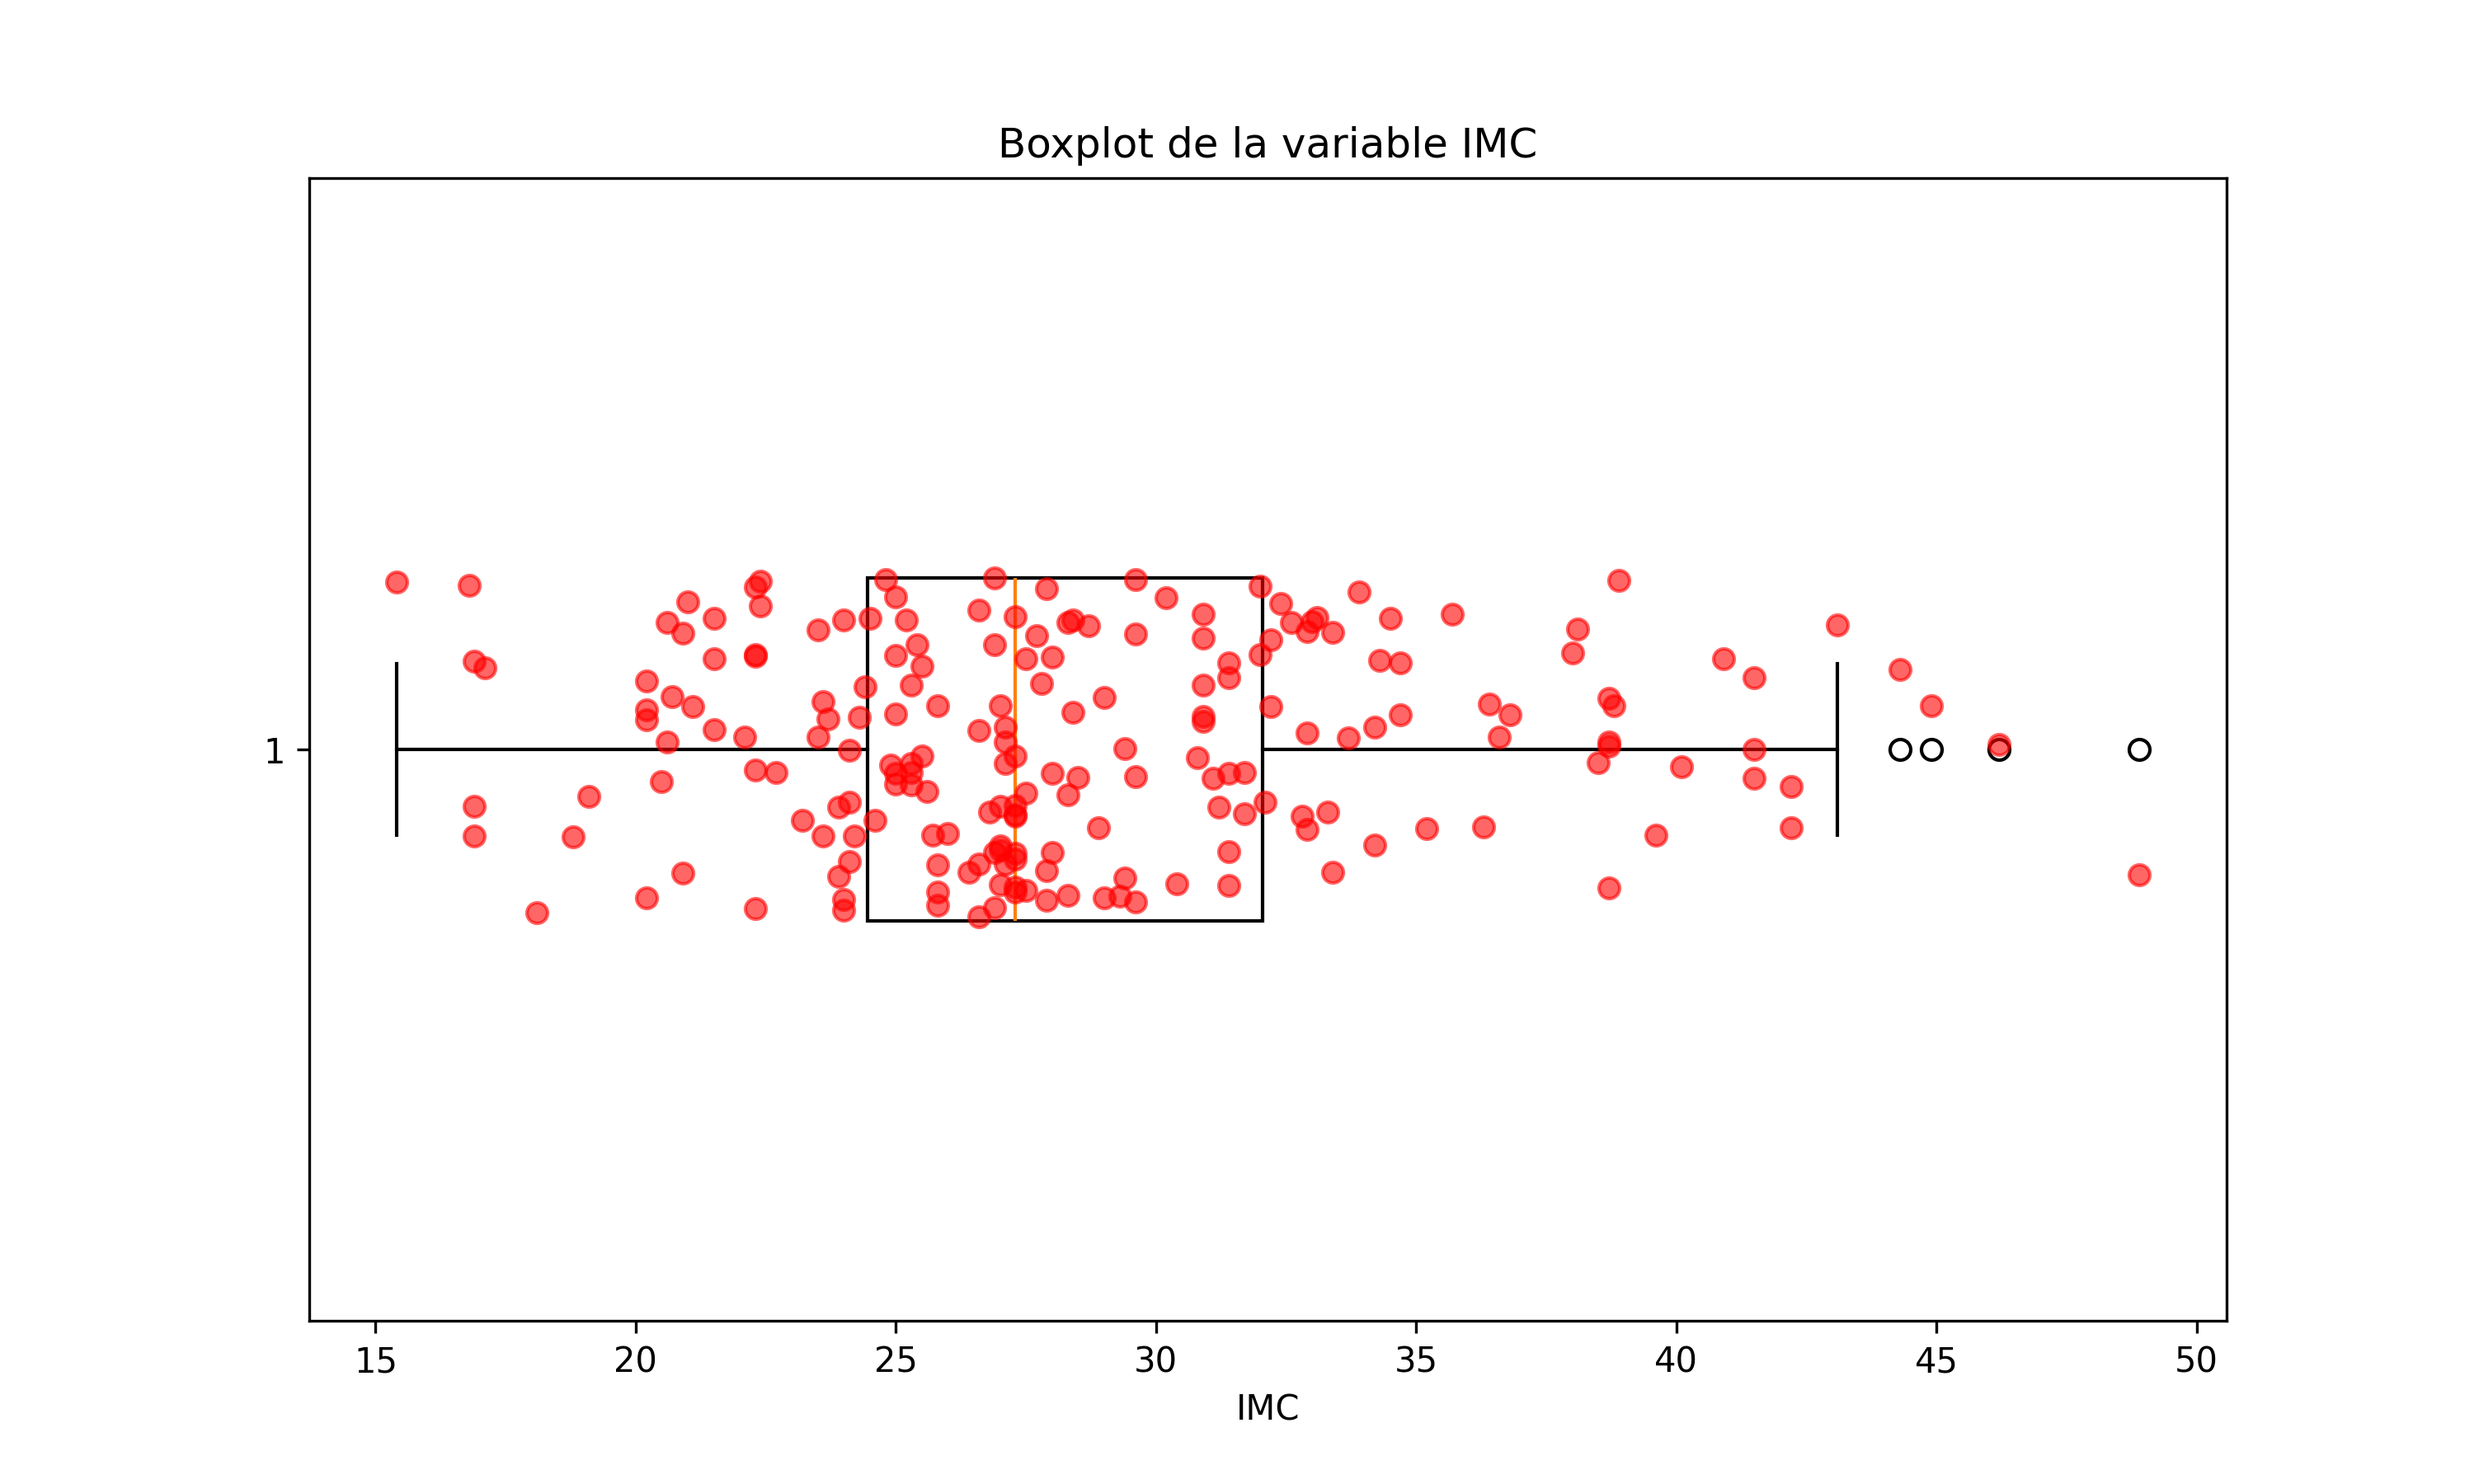
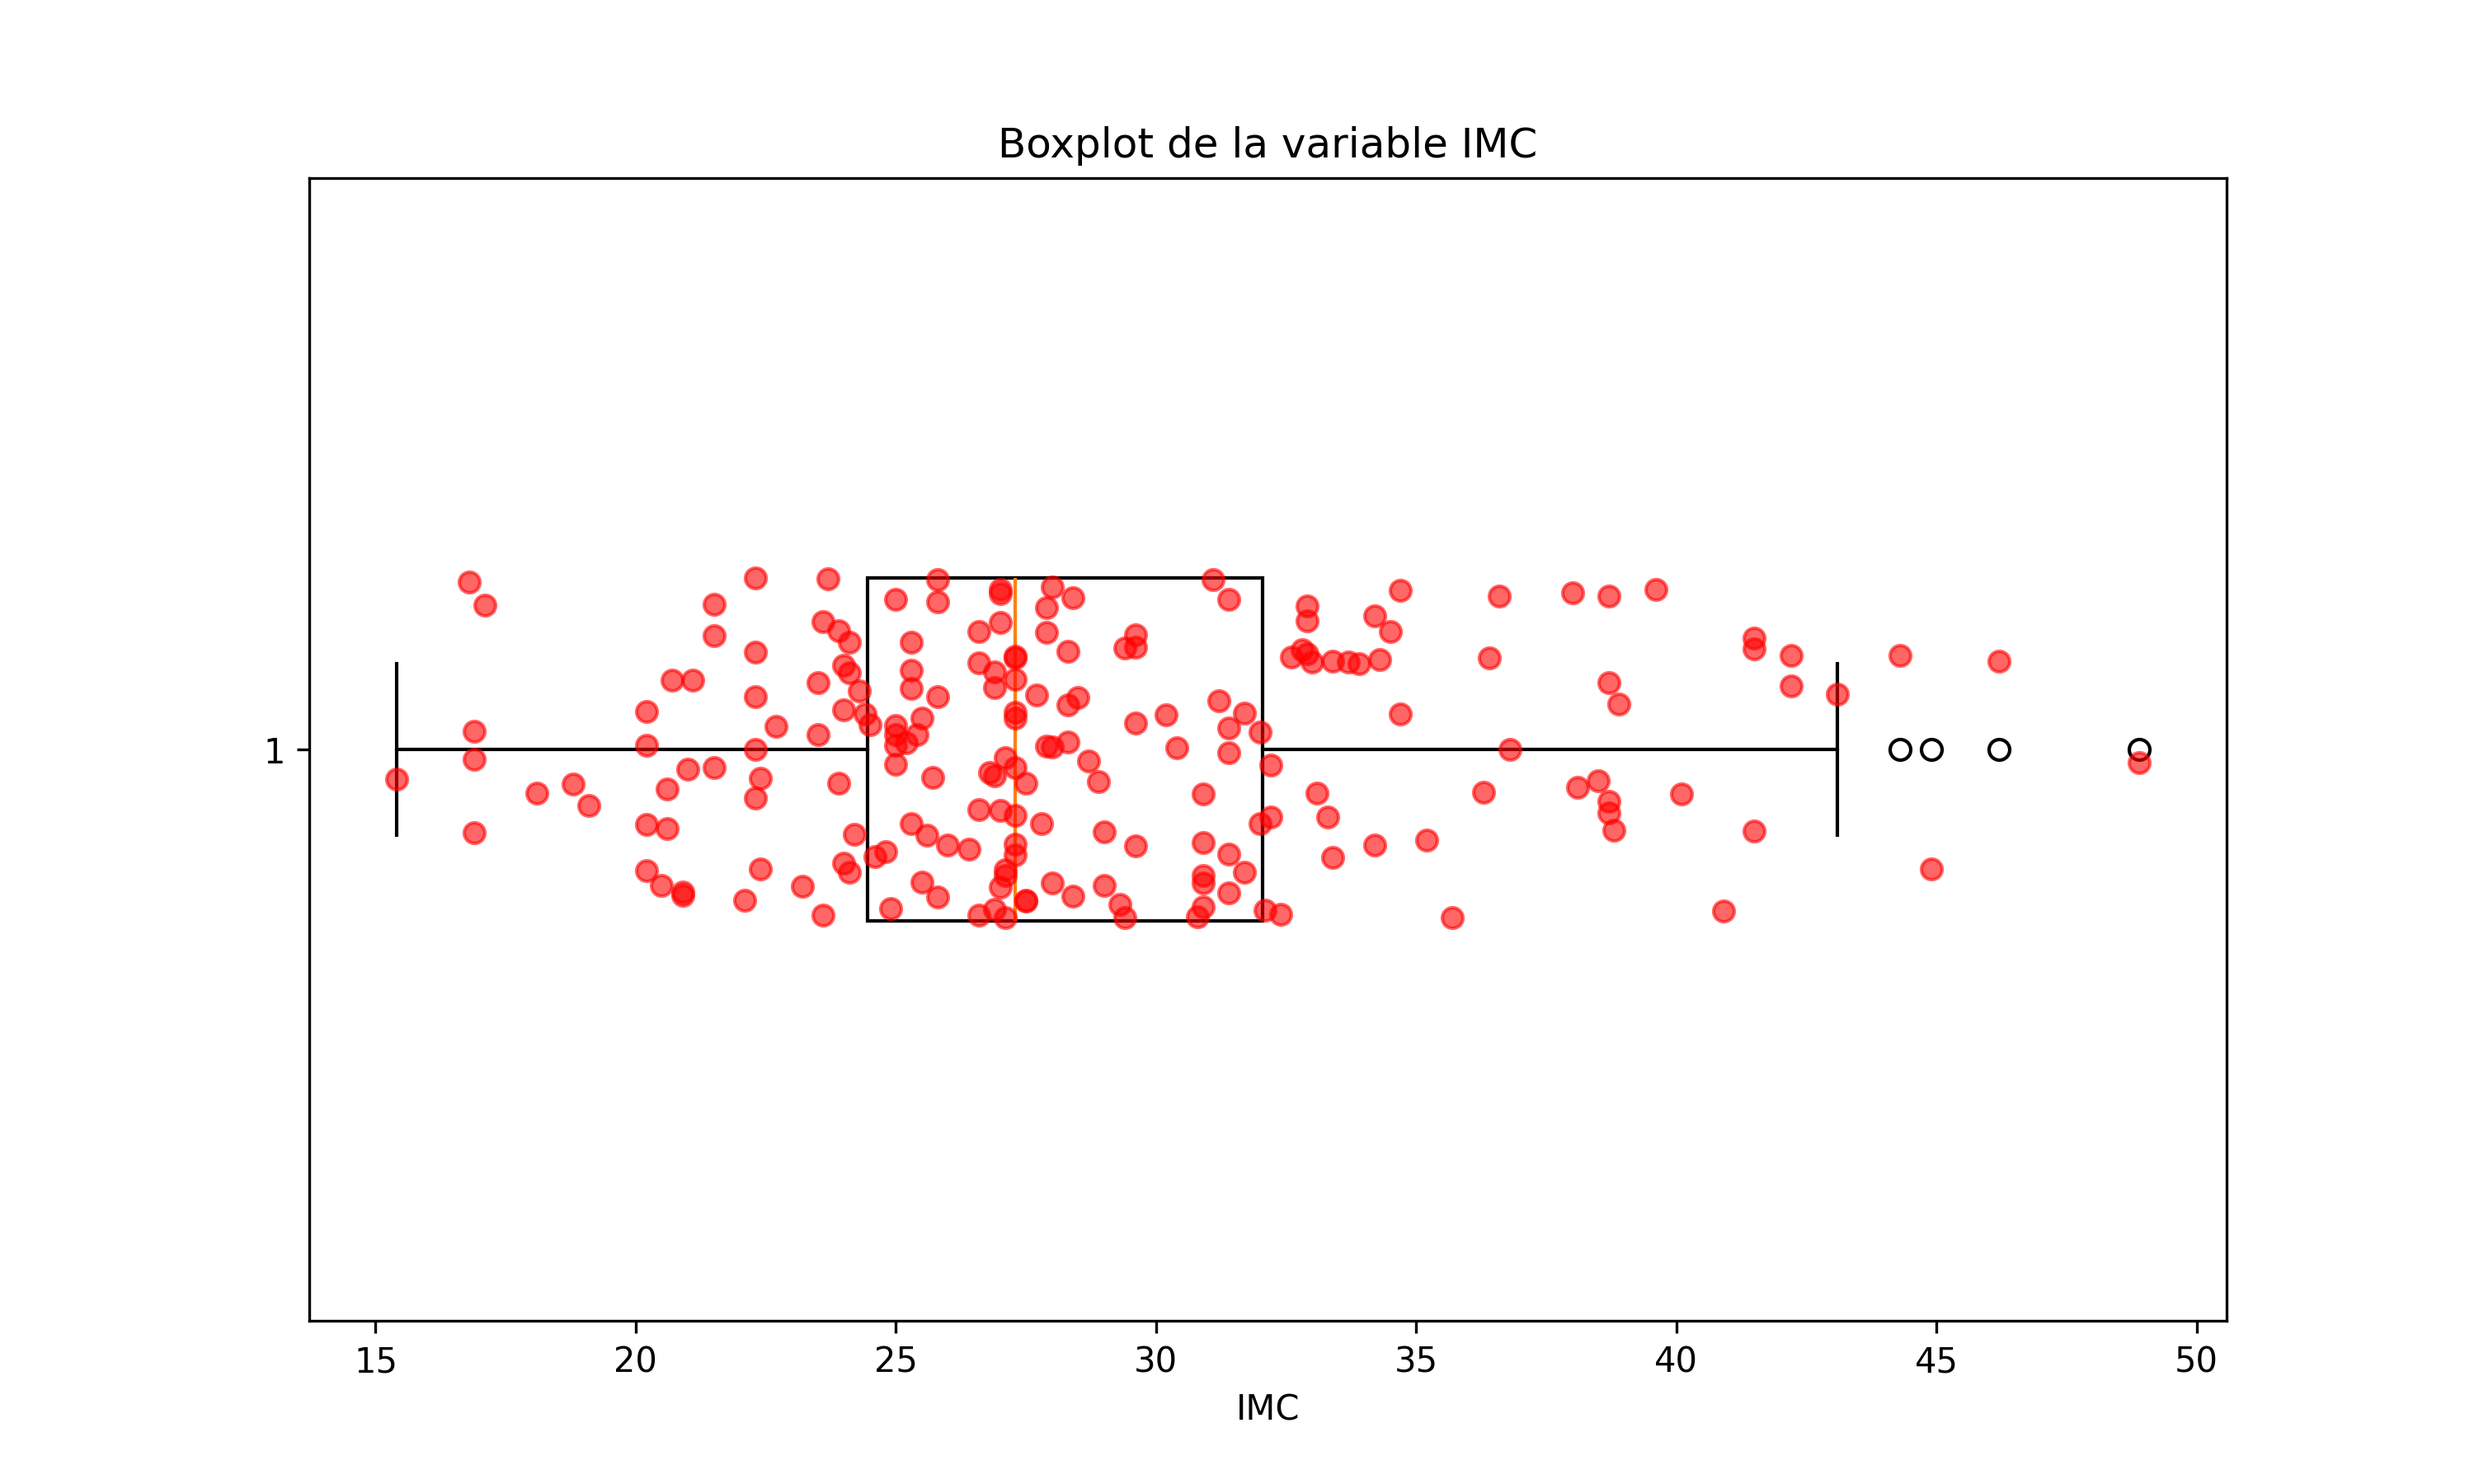
Apply logarithmic transformation to IMC

diff --git a/Informe.tex b/Informe.tex
@@ -314,9 +314,79 @@ En estos gráficos de la variable Índice de Masa Corporal (IMC) se observan en 
 la variable que distorsionan la uniformidad de su distribución corroborando los valores de las medidas de dispersión de esta variable. 
 También se observa que hay un grupo grande de individuos con un índice de masa corporal entre los 25 y 30 kg/m\^2. Con los resultados 
 de los test de normalidad concluimos que esta variable no sigue una distribución normal.
+\\ \\
+
+Dado el sesgo positivo (cola larga hacia la derecha) observado en el histograma de esta variable, lo que puede estar afectando los resultados de las pruebas de normalidad, aplicaremos una transformación logarítmica (logaritmo natural) a los valores de esta variable. Esto tiene como objetivo comprimir los datos y estabilizar la varianza, permitiendo una mejor evaluación de la normalidad.
+\begin{figure}[H]
+    \centering
+    \includegraphics[width=1\textwidth]{img/Tablas/test_normalidad_log_IMC.png}
+\end{figure}
+
+Como se observa en los resultados, al aplicar esta transformación en la escala de la variable, obtenemos pruebas de normalidad aceptadas.
 
 \newpage
 
+\section{Estimación}
+
+\subsection{Estimación puntual}
+La estimación puntual consiste en utilizar un solo valor, obtenido a partir de la muestra, para estimar un parámetro poblacional. A continuación, se presentan las estimaciones puntuales de las medias de las variables 'Edad', 'IMC' y 'AvgGlucosa'.
+
+\begin{itemize}
+    \item \textbf{Edad:} La media poblacional de la variable 'Edad' se estima que es $\bar{X}_{\text{Edad}} = 60.43$ años.
+    \item \textbf{IMC:} La media poblacional de la variable 'IMC' se estima que es $\bar{X}_{\text{IMC}} = 28.25$ kg/m\(^2\).
+    \item \textbf{AvgGlucosa:} La media poblacional de la variable 'AvgGlucosa' se estima que es $\bar{X}_{\text{AvgGlucosa}} = 123.71$ mg/dL.
+\end{itemize}
+
+\subsection{Estimación por intervalo}
+La estimación por intervalo proporciona un rango de valores dentro del cual se espera que se encuentre el parámetro poblacional con un cierto nivel de confianza. A continuación, se presentan los intervalos de confianza para las medias de las variables 'Edad', 'IMC' y 'AvgGlucosa'.
+
+\subsubsection{Intervalo de confianza para la media de la variable 'Edad'}
+Dado que la variable 'Edad' sigue una distribución normal, utilizamos la fórmula del intervalo de confianza para la media de una distribución normal:
+
+\[ IC = \bar{X} \pm Z_{\alpha/2} \left( \frac{\sigma}{\sqrt{n}} \right) \]
+
+Donde:
+\begin{itemize}
+    \item $\bar{X}$ es la media muestral.
+    \item $Z_{\alpha/2}$ es el valor crítico de la distribución normal estándar para un nivel de confianza del 95\%.
+    \item $\sigma$ es la desviación estándar muestral.
+    \item $n$ es el tamaño de la muestra.
+\end{itemize}
+
+Para la variable 'Edad', con un nivel de confianza del 95\%, el intervalo de confianza es:
+
+\[ IC_{\text{Edad}} = 60.43 \pm 1.96 \left( \frac{4.5}{\sqrt{200}} \right) \]
+\[ IC_{\text{Edad}} = 60.43 \pm 0.62 \]
+\[ IC_{\text{Edad}} = ( 59.81;  61.05 ) \]
+
+\subsubsection{Intervalo de confianza para la media de la variable 'IMC'}
+Dado que la variable 'IMC' sigue una distribución normal, utilizamos la misma fórmula del intervalo de confianza para la media de una distribución normal:
+
+\[ IC_{\text{IMC}} = 28.25 \pm 1.96 \left( \frac{5.2}{\sqrt{200}} \right) \]
+\[ IC_{\text{IMC}} = 28.25 \pm 0.72 \]
+\[ IC_{\text{IMC}} = ( 27.53 ; 28.97 ) \]
+
+\subsubsection{Intervalo de confianza para la media de la variable 'AvgGlucosa'}
+Dado que la variable 'AvgGlucosa' no sigue una distribución normal, utilizamos la fórmula del intervalo de confianza para la media de una distribución no normal, utilizando el estadístico t de Student:
+
+\[ IC = \bar{X} \pm t_{\alpha/2, n-1} \left( \frac{s}{\sqrt{n}} \right) \]
+
+Donde:
+\begin{itemize}
+    \item $\bar{X}$ es la media muestral.
+    \item $t_{\alpha/2, n-1}$ es el valor crítico de la distribución t de Student para un nivel de confianza del 95\% y $n-1$ grados de libertad.
+    \item $s$ es la desviación estándar muestral.
+    \item $n$ es el tamaño de la muestra.
+\end{itemize}
+
+Para la variable 'AvgGlucosa', con un nivel de confianza del 95\%, el intervalo de confianza es:
+
+\[ IC_{\text{AvgGlucosa}} = 123.71 \pm 1.97 \left( \frac{30.5}{\sqrt{200}} \right) \]
+\[ IC_{\text{AvgGlucosa}} = 123.71 \pm 4.24 \]
+\[ IC_{\text{AvgGlucosa}} = ( 119.47;  127.95 ) \]
+
+
+\newpage
 
 \section{Relación entre variables cuantitativas}
 
@@ -525,8 +595,8 @@ A continuación visualizaremos la proporcion en la que aparecen las variables cu
 \newpage
 
 \section{Relación entre variables categóricas}
-\subsection{Heatmaps de las tablas de contigencia}
-
+Un Heatmap es una representación visual de las tablas de contingencia, donde los valores de la tabla se traducen en colores. Esta representación facilita la interpretación de los datos, permitiendo detectar valores atípicos, patrones, tendencias y la intensidad de las relaciones entre las variables de manera más intuitiva y rápida.
+\\ \\
 \begin{figure}[H]
     \centering
     \includegraphics[width=0.45\textwidth]{img/Heatmap/Accidentes_Cardiopatia.png} \hspace{0.5cm}

diff --git a/Cerebrovasculares.py b/Cerebrovasculares.py
@@ -247,6 +247,11 @@ crear_tabla_test_normalidad('Edad')
 crear_tabla_test_normalidad('Avg_Glucosa')
 crear_tabla_test_normalidad('IMC')
 
+# Aplicando transformaciones logaritmicas a la variable IMC
+df['log_IMC'] = np.log(df['IMC'])
+
+crear_tabla_test_normalidad('log_IMC')
+
 # Crear una matriz de correlación de Pearson
 correlation_matrix_pearson = df.corr(method='pearson')
 plt.figure(figsize=(10, 8))
@@ -266,7 +271,7 @@ plt.close()
 
 
 # Matriz de regresión lineal de las variables Edad, IMC y Avg_Glucosa
-sns.pairplot(df[['Edad', 'IMC', 'Avg_Glucosa']], kind='reg', plot_kws={'line_kws':{'color':'red', 'lw':1}, 'scatter_kws': {'alpha':0.8, 's':40, 'color':'gray'}})
+sns.pairplot(df[['Edad', 'IMC', 'Avg_Glucosa']], kind='reg', plot_kws={'line_kws':{'color':'red', 'lw':1}, 'scatter_kws': {'alpha':0.8, 's':20, 'color':'gray'}})
 plt.savefig('./img/matriz_regresion_lineal.png', dpi=300, bbox_inches='tight')
 plt.close()
 
